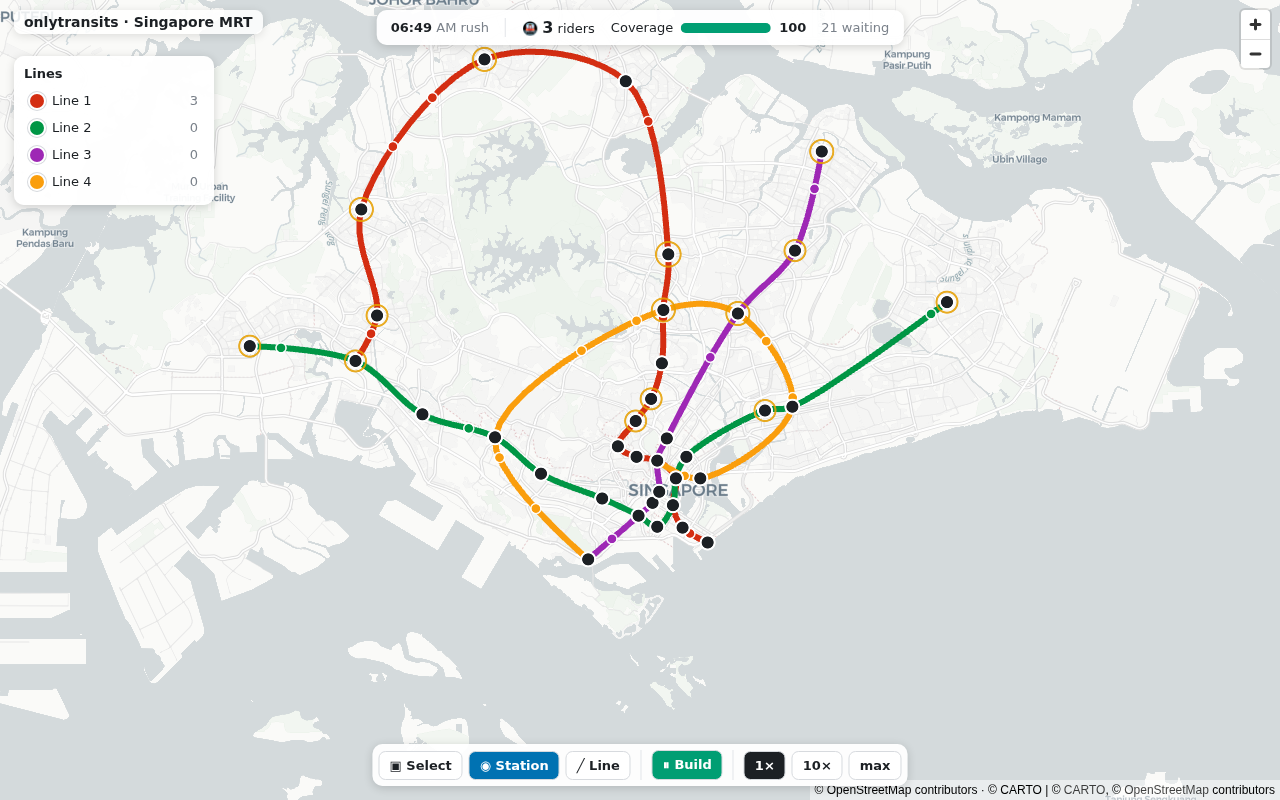
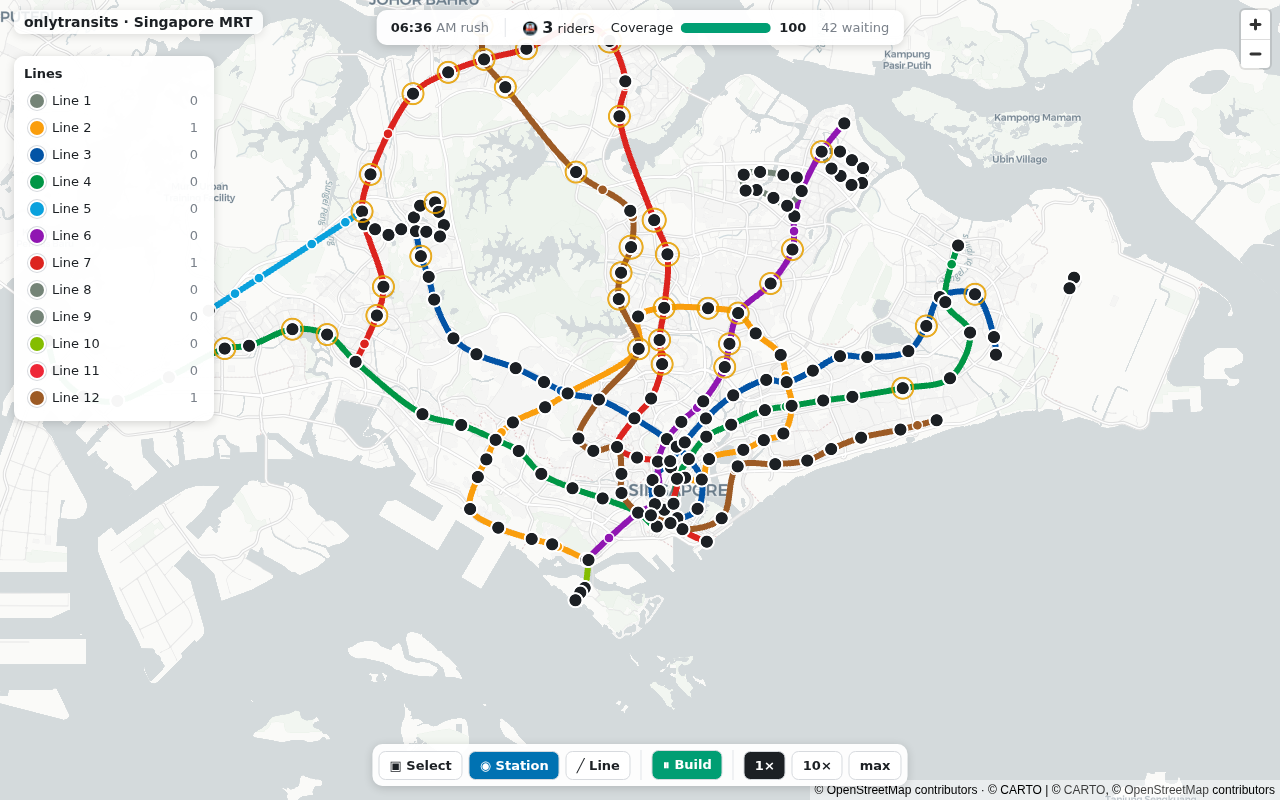
feat(data,sim): pull real networks from OpenStreetMap (Overpass) + route cache (F6)
- scripts/build_networks.py: re-runnable OSM importer. Queries Overpass for route relations
  (subway/light_rail/monorail/tram) in each city bbox, groups direction variants by ref,
  extracts ordered stop nodes, dedups stations by name (=> interchanges), reads line colour.
  Mirrors + graceful fallback to the committed JSON. This is the 'pull/update from' source.
- Regenerated networks from OSM: Singapore 12 lines/177 stations, Tokyo 32 lines/440 stations,
  Calgary 2 lines/42 stations (real C-Train) — far more complete than the curated seed.
- sim: World.route_cache (FxHashMap, lookup-only, cleared on network change) so BFS routing
  isn't rerun per spawn — keeps Tokyo's 440-station network fast. cargo 20/20 (deterministic).
- e2e: SG + Tokyo boot from OSM and carry riders. Screenshots f4-singapore-mrt / f6-tokyo-osm.

diff --git a/packages/app/e2e/network.spec.ts b/packages/app/e2e/network.spec.ts
@@ -29,3 +29,27 @@ test("Singapore boots with the real MRT and carries riders", async ({ page }) =>
   mkdirSync("../../docs/progress", { recursive: true });
   await page.screenshot({ path: "../../docs/progress/f4-singapore-mrt.png" });
 });
+
+// Perf/scale: Tokyo's full OSM network is ~32 lines / ~440 stations. It must still boot and
+// carry riders (route cache keeps BFS-per-spawn cheap).
+test("Tokyo (full OSM network, ~440 stations) boots and runs", async ({ page }) => {
+  await page.goto("/?city=tokyo&network=1");
+  await page.waitForFunction(() => window.__MAP_READY === true, undefined, { timeout: 45_000 });
+  const net = await page.evaluate(() => ({
+    lines: window.__ot!.bridge.linesView().length,
+    stations: window.__ot!.bridge.stationsView().length,
+  }));
+  expect(net.lines).toBeGreaterThanOrEqual(10);
+  expect(net.stations).toBeGreaterThanOrEqual(200);
+
+  await page.evaluate(() => {
+    window.__ot_test!.setRunning(true);
+    window.__ot_test!.setSpeed(100);
+  });
+  await page.waitForFunction(
+    () => (window.__ot_test!.stats() as { ridershipTotal: number }).ridershipTotal > 0,
+    undefined,
+    { timeout: 25_000 },
+  );
+  await page.screenshot({ path: "../../docs/progress/f6-tokyo-osm.png" });
+});

diff --git a/scripts/build_networks.py b/scripts/build_networks.py
@@ -1,0 +1,158 @@
+#!/usr/bin/env python3
+"""Pull REAL transit networks from OpenStreetMap (Overpass API) and emit them as
+packages/app/public/data/networks/<id>.json — the same schema Game.applyNetwork consumes.
+Re-runnable to refresh/update from OSM. OSM models transit as route relations
+(route=subway/light_rail/monorail/tram) whose ordered "stop" members are the stations and
+whose `colour` tag is the line colour; route_master groups direction variants.
+
+Network only (build-time tool); on failure the previously committed network JSON is kept.
+Dependency-free (urllib + json). Usage:
+  python3 scripts/build_networks.py [city_id ...]      # default: all configured cities
+"""
+import json
+import math
+import os
+import sys
+import time
+import urllib.parse
+import urllib.request
+
+HERE = os.path.dirname(os.path.abspath(__file__))
+OUT_DIR = os.path.join(HERE, "..", "packages", "app", "public", "data", "networks")
+ENDPOINTS = [
+    "https://overpass-api.de/api/interpreter",
+    "https://overpass.kumi.systems/api/interpreter",
+]
+# Route types to pull per city (Tokyo's heavy-rail "train" network is enormous, so subway+LR).
+ROUTE_RE = "^(subway|light_rail|monorail|tram)$"
+PALETTE = ["d42e12", "009645", "9e28b5", "fa9e0d", "0aa1dd", "00b0b9",
+           "e6007e", "6f2c91", "f68b1f", "84bd00", "ee2737", "0067a5"]
+
+
+def cities():
+    cfg = json.load(open(os.path.join(HERE, "city_demand_config.json")))
+    names = {"singapore": "Singapore MRT", "tokyo": "Tokyo", "calgary": "Calgary C-Train"}
+    return {cid: {"bbox": c["bbox"], "name": names.get(cid, cid)} for cid, c in cfg["cities"].items()}
+
+
+def overpass(bbox):
+    s, w, n, e = bbox[1], bbox[0], bbox[3], bbox[2]
+    q = (
+        f"[out:json][timeout:180];"
+        f'(relation["type"="route"]["route"~"{ROUTE_RE}"]({s},{w},{n},{e}););'
+        f"out body;>;out body qt;"
+    )
+    last = None
+    for ep in ENDPOINTS:
+        try:
+            req = urllib.request.Request(ep, data=("data=" + urllib.parse.quote(q)).encode(),
+                                         headers={"User-Agent": "onlytransits/0.1 (build script)"})
+            with urllib.request.urlopen(req, timeout=200) as r:
+                return json.load(r)
+        except Exception as ex:  # try the next mirror
+            last = ex
+            time.sleep(2)
+    raise RuntimeError(f"overpass failed: {last}")
+
+
+def norm_colour(tags, idx):
+    c = (tags.get("colour") or tags.get("color") or "").strip().lstrip("#")
+    if len(c) == 3:
+        c = "".join(ch * 2 for ch in c)
+    if len(c) == 6 and all(ch in "0123456789abcdefABCDEF" for ch in c):
+        return c.lower()
+    return PALETTE[idx % len(PALETTE)]
+
+
+def dist_km(a, b):
+    return math.hypot((a[0] - b[0]) * 111.32 * math.cos(math.radians(a[1])),
+                      (a[1] - b[1]) * 110.54)
+
+
+def build(cid, meta):
+    data = overpass(meta["bbox"])
+    nodes, rels = {}, []
+    for el in data["elements"]:
+        if el["type"] == "node":
+            nodes[el["id"]] = el
+        elif el["type"] == "relation" and el.get("tags", {}).get("route"):
+            rels.append(el)
+
+    # Group route variants into one line by ref|name, keep the variant with the most stops.
+    best = {}
+    for r in rels:
+        t = r.get("tags", {})
+        name = t.get("name") or t.get("ref")
+        if not name:
+            continue
+        stops = [m["ref"] for m in r.get("members", [])
+                 if m["type"] == "node" and str(m.get("role", "")).startswith("stop")]
+        if len(stops) < 2:  # fall back to platforms if no stop roles
+            stops = [m["ref"] for m in r.get("members", [])
+                     if m["type"] == "node" and "platform" in str(m.get("role", ""))]
+        if len(stops) < 2:
+            continue
+        key = t.get("ref") or name
+        if key not in best or len(stops) > len(best[key][1]):
+            best[key] = (r, stops)
+
+    # Dedup stations by name (merging same-name stops => interchanges).
+    stations, idx_by_name = [], {}
+
+    def station_index(node_id):
+        nd = nodes.get(node_id)
+        if not nd or "lat" not in nd:
+            return None
+        nm = (nd.get("tags", {}).get("name") or nd.get("tags", {}).get("name:en")
+              or f"Stop {node_id}")
+        if nm in idx_by_name:
+            return idx_by_name[nm]
+        i = len(stations)
+        idx_by_name[nm] = i
+        stations.append({"name": nm, "lng": round(nd["lon"], 5), "lat": round(nd["lat"], 5)})
+        return i
+
+    lines = []
+    for ci, (key, (r, stops)) in enumerate(sorted(best.items())):
+        t = r.get("tags", {})
+        seq, last = [], None
+        for nid in stops:
+            si = station_index(nid)
+            if si is not None and si != last:
+                seq.append(si)
+                last = si
+        if len(seq) < 2:
+            continue
+        lines.append({
+            "name": t.get("name") or t.get("ref") or key,
+            "colorHex": norm_colour(t, ci),
+            "headwayMin": 4,
+            "trains": max(4, min(12, len(seq) // 3)),
+            "stations": seq,
+        })
+
+    if not lines:
+        raise RuntimeError("no usable routes parsed")
+    net = {"cityId": cid, "name": meta["name"], "stations": stations, "lines": lines}
+    os.makedirs(OUT_DIR, exist_ok=True)
+    json.dump(net, open(os.path.join(OUT_DIR, f"{cid}.json"), "w"), separators=(",", ":"))
+    inter = sum(1 for nm in idx_by_name
+                if sum(1 for l in lines if idx_by_name[nm] in l["stations"]) > 1)
+    print(f"[build_networks] {cid}: {len(lines)} lines, {len(stations)} stations, ~{inter} interchanges (OSM)")
+
+
+def main():
+    want = sys.argv[1:] or list(cities().keys())
+    cfg = cities()
+    for cid in want:
+        if cid not in cfg:
+            print(f"  skip unknown city {cid}")
+            continue
+        try:
+            build(cid, cfg[cid])
+        except Exception as ex:
+            print(f"  !! {cid}: {ex} — keeping existing committed network")
+
+
+if __name__ == "__main__":
+    main()

diff --git a/crates/sim/src/demand.rs b/crates/sim/src/demand.rs
@@ -89,6 +89,7 @@ pub(crate) fn spawn(world: &mut World, dt_ms: i64) {
         ref mut spawn_accum,
         ref mut waiting,
         ref mut rng,
+        ref mut route_cache,
         ..
     } = *world;
 
@@ -111,10 +112,13 @@ pub(crate) fn spawn(world: &mut World, dt_ms: i64) {
             if let Some(dest) =
                 pick_dest(stations, serving, captured_origin, captured_dest, bias, s, rng)
             {
-                // Route across the network (transfers at interchanges); enqueue if reachable.
-                if let Some(legs) = plan_route(lines, serving, StationId(s as u32), dest, MAX_LEGS) {
+                // Route across the network (transfers at interchanges), cached per O/D pair.
+                let entry = route_cache
+                    .entry((s as u32, dest.0))
+                    .or_insert_with(|| plan_route(lines, serving, StationId(s as u32), dest, MAX_LEGS));
+                if let Some(legs) = entry {
                     if !legs.is_empty() {
-                        waiting[s].push_back(Pax { legs, leg: 0 });
+                        waiting[s].push_back(Pax { legs: legs.clone(), leg: 0 });
                     }
                 }
             }

diff --git a/crates/sim/src/world.rs b/crates/sim/src/world.rs
@@ -49,6 +49,10 @@ pub struct World {
     pub waiting: Vec<VecDeque<crate::pax::Pax>>,
     /// Per-station lines serving it (operational only); rebuilt by the dispatcher for routing.
     pub serving: Vec<Vec<LineId>>,
+    /// Route cache (origin,dest)->legs, so BFS isn't rerun per spawn on large networks.
+    /// A derived cache (not hashed); cleared when the network changes. Lookup-only, so no
+    /// HashMap-iteration determinism hazard.
+    pub route_cache: rustc_hash::FxHashMap<(u32, u32), Option<Vec<crate::routing::Leg>>>,
     /// Cumulative boardings (the headline ridership counter).
     pub ridership_total: u64,
     pub boardings: Vec<u64>,
@@ -103,6 +107,7 @@ impl World {
             boardings: Vec::new(),
             alightings: Vec::new(),
             serving: Vec::new(),
+            route_cache: rustc_hash::FxHashMap::default(),
             demand_dirty: false,
         }
     }

diff --git a/crates/sim/src/dispatch.rs b/crates/sim/src/dispatch.rs
@@ -10,6 +10,7 @@ pub(crate) fn dispatch(world: &mut World) {
         return;
     }
     world.dispatch_dirty = false;
+    world.route_cache.clear(); // network changed; routes may differ
 
     // Rebuild the per-station serving-lines map (operational lines only) for routing.
     let nstations = world.stations.len();
